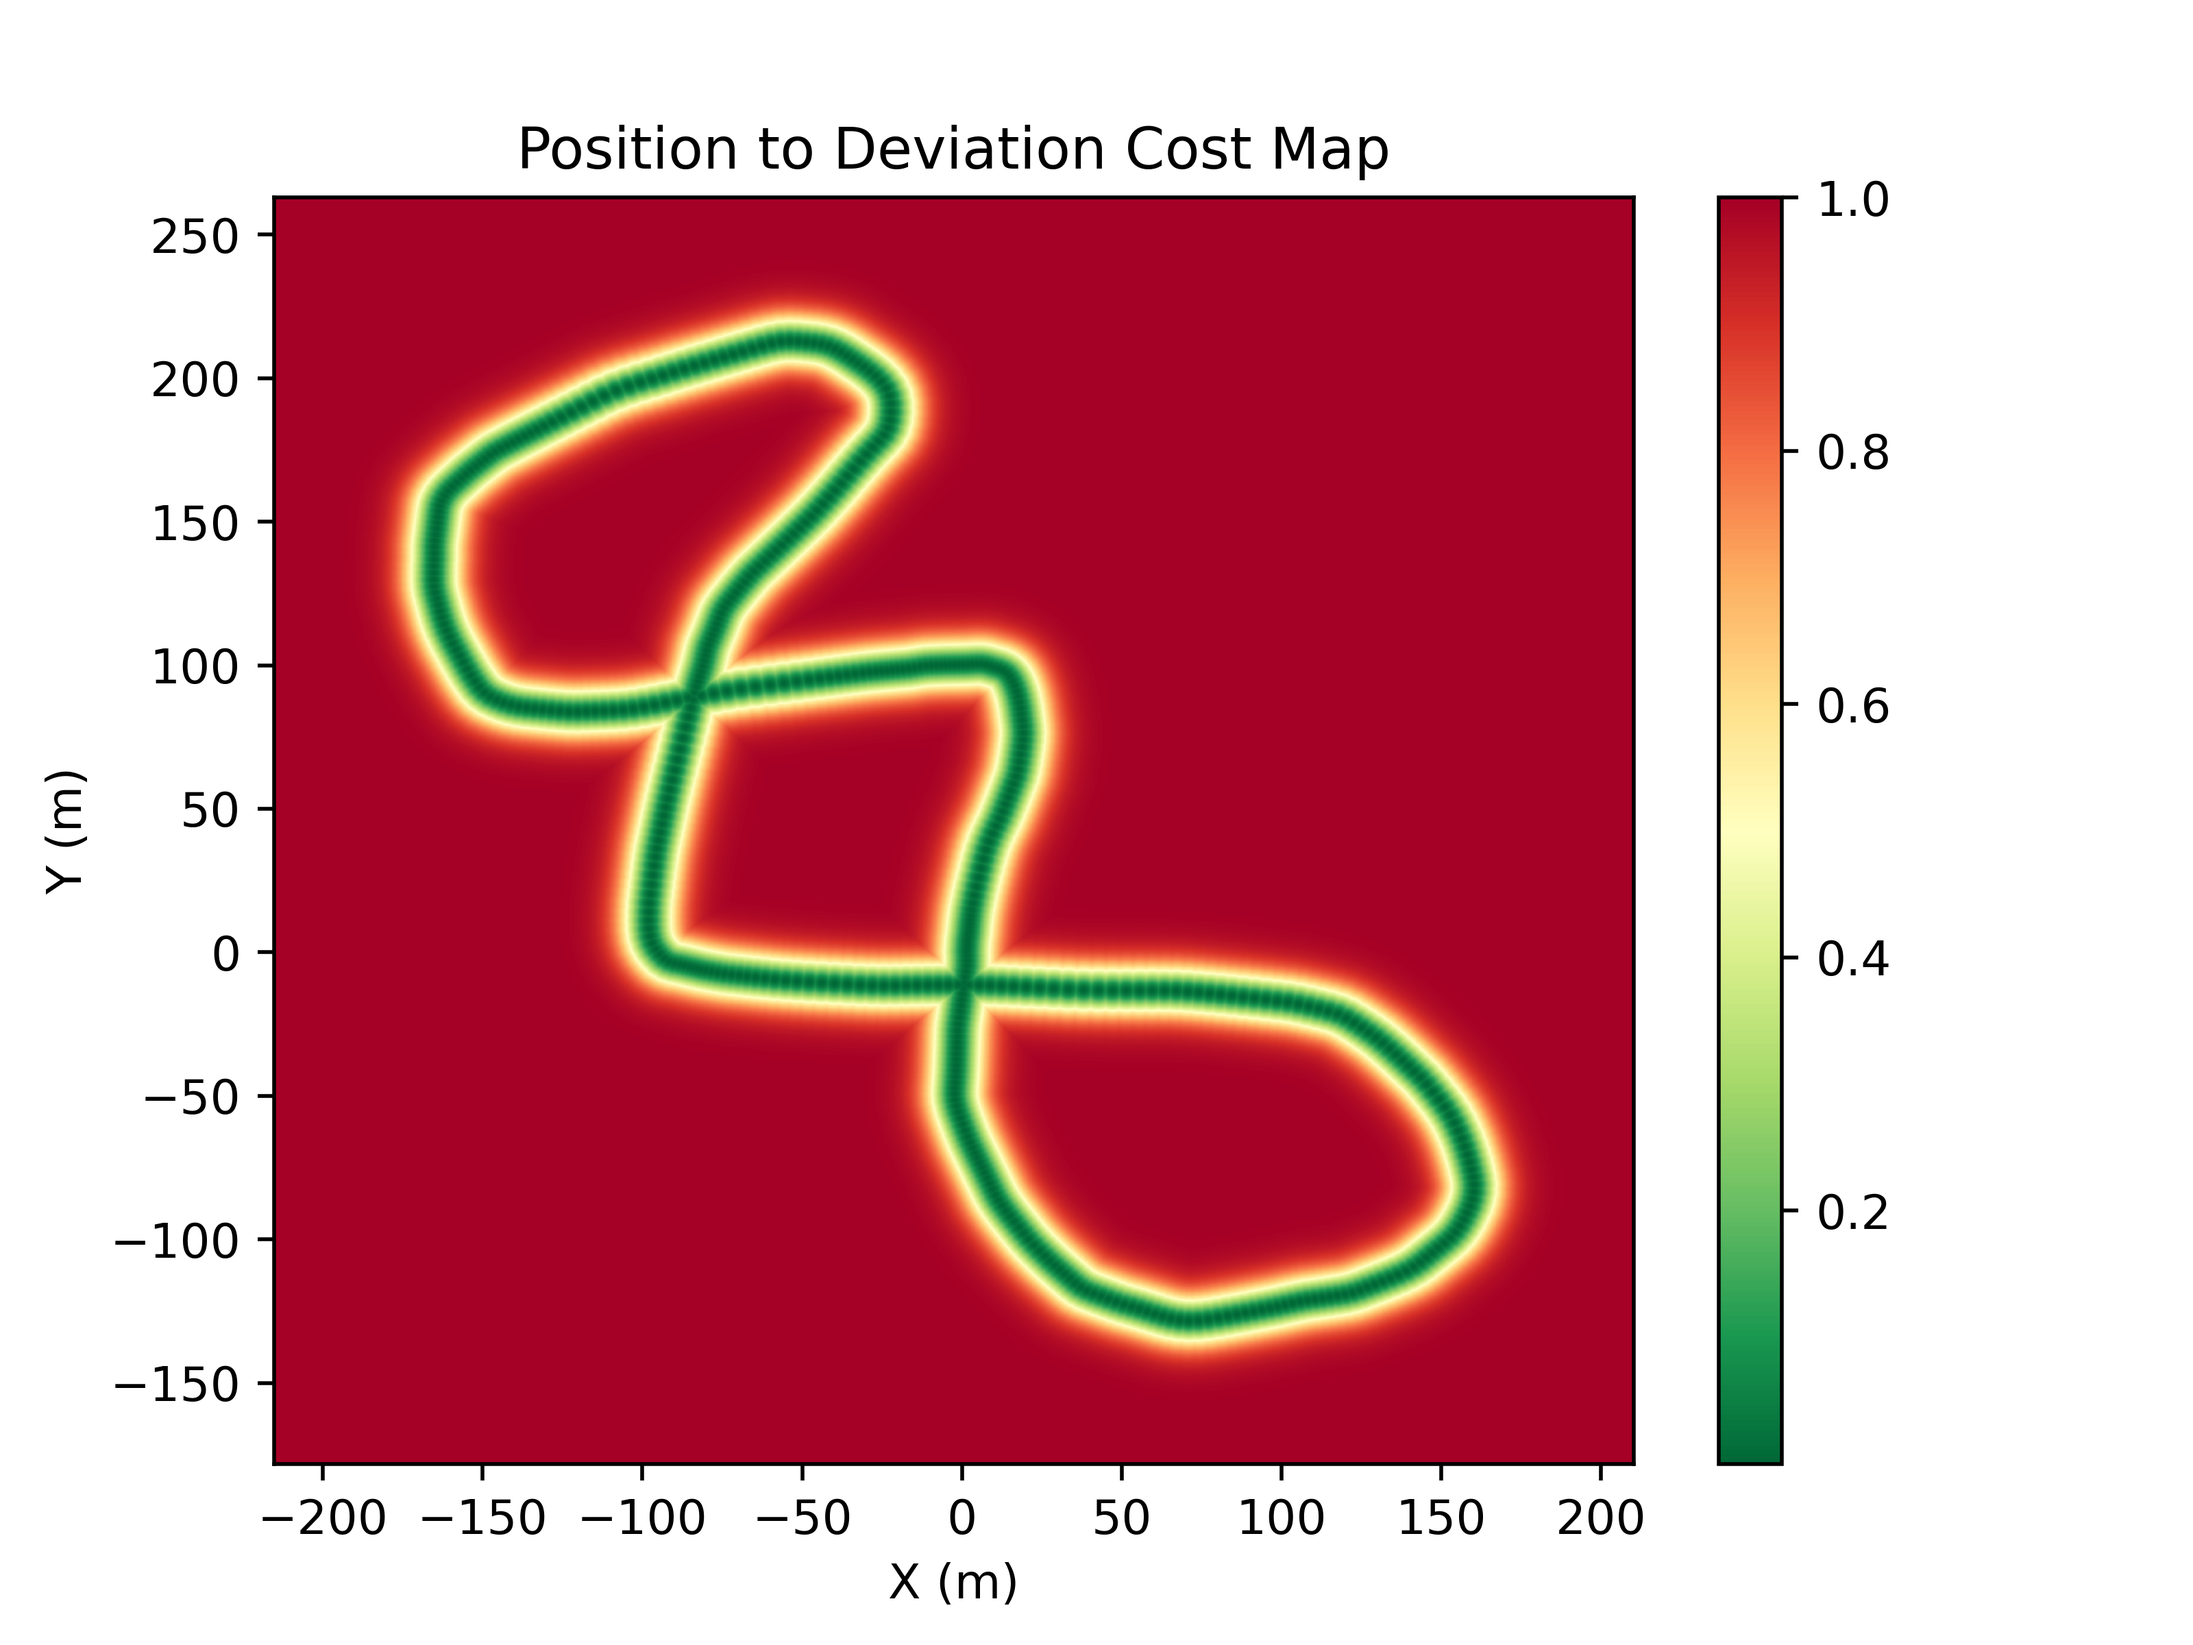
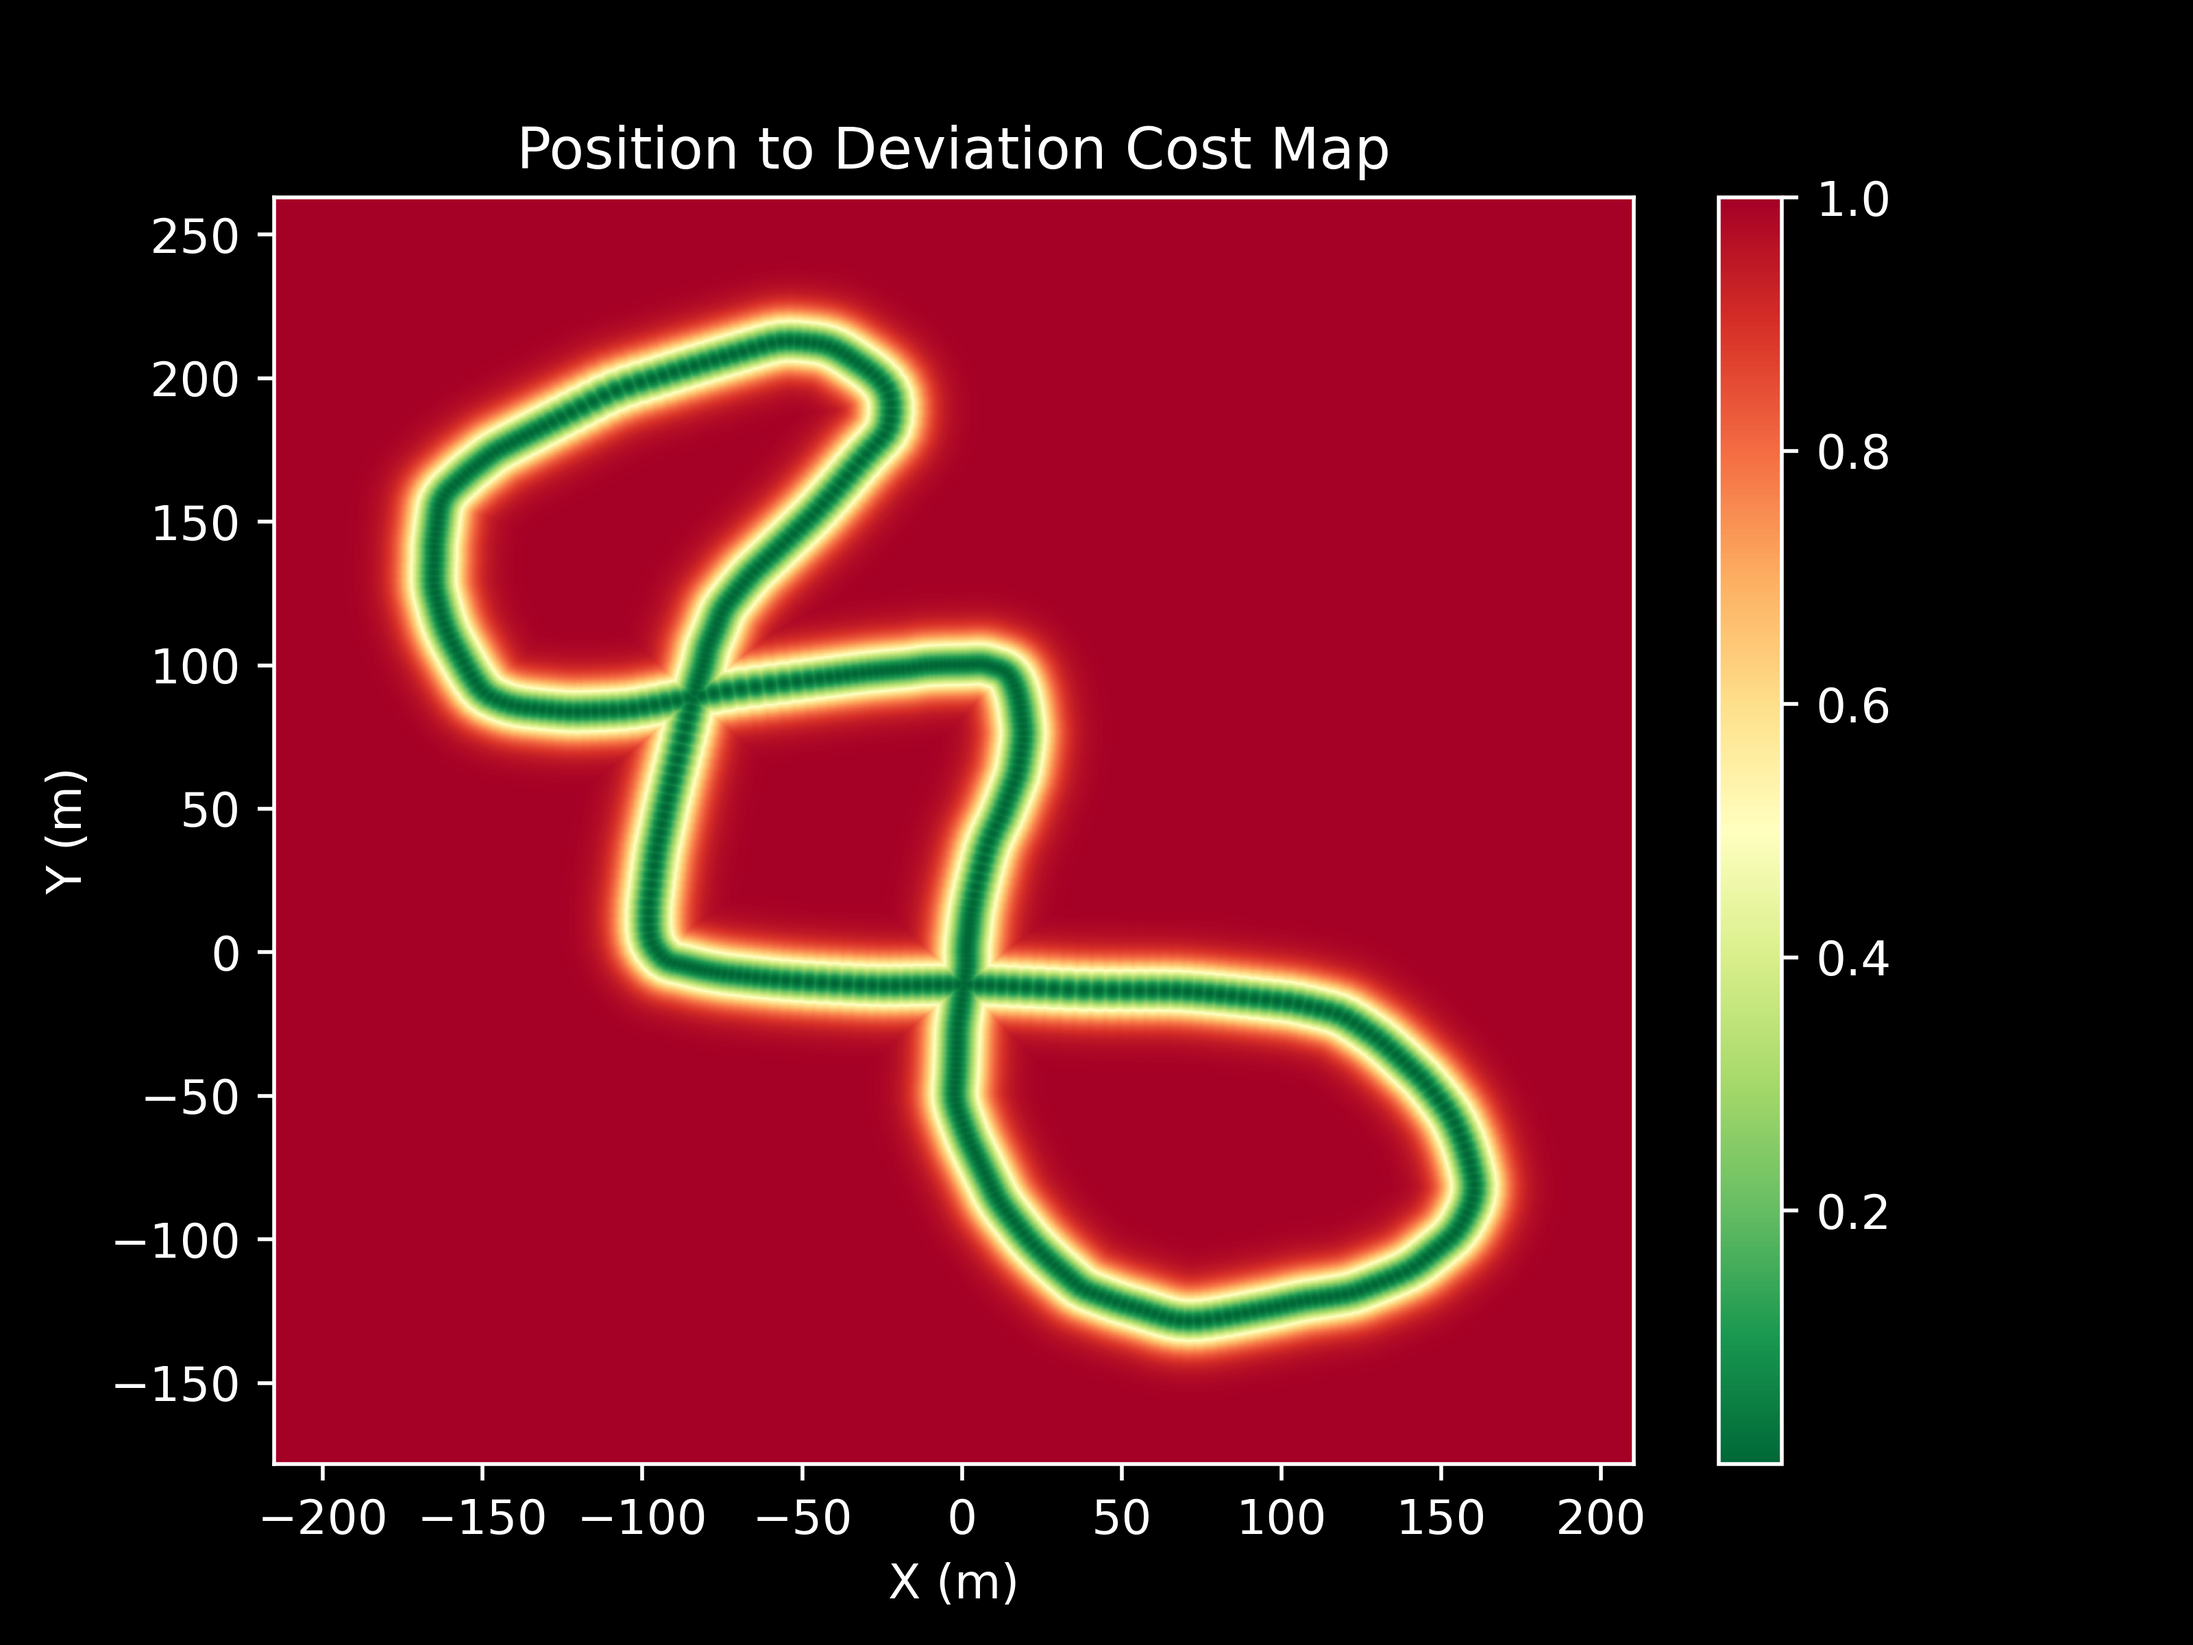
Cleaning videos

diff --git a/logging/video.py b/logging/video.py
@@ -5,6 +5,7 @@ from PIL import Image, ImageFont, ImageDraw
 import matplotlib.pyplot as plt
 from mpl_toolkits import mplot3d
 from matplotlib.backends.backend_agg import FigureCanvasAgg
+import matplotlib as mpl
 sys.path.append(os.path.abspath("./"))
 from src.envs import get_env
 from src.models import RandomAgent, get_config
@@ -21,14 +22,15 @@ class PathAnimator():
 		if interactive: plt.ion()
 		self.interactive = interactive
 		self.track = track
-		self.fig = plt.figure()#(figsize=(6, 8), dpi=80)
+		self.fig = plt.figure(figsize=(8, 8), dpi=80)
+		plt.style.use('dark_background')
 		self.fig.tight_layout()
 		self.fig.subplots_adjust(hspace=0.2, wspace=0.2)
 		self.fig.suptitle("Sampled MPPI Trajectories")
 		self.ax = plt.axes(projection='3d')
 		self.X, self.Y, self.Z = track.X, track.Y, track.Z
 
-	def animate_path(self, trajectories, chosen=None, view=50, info=None):
+	def animate_path(self, trajectories, chosen=None, view=60, info=None):
 		self.ax.cla()
 		self.plot(trajectories, chosen, view, info)
 		if self.interactive:
@@ -39,14 +41,18 @@ class PathAnimator():
 			cvs = FigureCanvasAgg(self.fig)
 			cvs.draw()
 			w, h = map(int, self.fig.get_size_inches()*self.fig.get_dpi())
-			image = np.frombuffer(cvs.tostring_rgb(), dtype="uint8").reshape(h,w,3)
+			image = np.copy(np.frombuffer(cvs.tostring_rgb(), dtype="uint8").reshape(h,w,3))
+			image[:,:80] = 0 
+			image[:,-80:] = 0
+			image[:80] = 0
+			image[-80:] = 0
 			plt.close()
 		return image
 
 	def plot(self, trajectories, chosen, view, info=None):
 		point = trajectories[0,0]
 		X, Y, Z = map(lambda x: x, [self.X, self.Y, self.Z])
-		self.ax.plot(X,Y,Z, color="#DDDDDD")
+		self.ax.plot(X,Y,Z, color="#999999")
 		self.ax.set_zlim3d(-100, 100)
 		self.ax.set_xlim3d(point[0]-view, point[0]+view)
 		self.ax.set_ylim3d(point[2]-view, point[2]+view)
@@ -56,7 +62,15 @@ class PathAnimator():
 			self.ax.plot(xs, ys, zs, linewidth=0.2)
 		if chosen is not None:
 			x,z,y = chosen[0,:,0], chosen[0,:,1], chosen[0,:,2]
-			self.ax.plot(x, y, z, color="black", linewidth=1)
+			self.ax.plot(x, y, z, color="blue", linewidth=1)
+			self.ax.scatter(x[0],y[0],z[0], s=2, color="white")
+		self.ax.w_xaxis.pane.set_color('#222222')
+		self.ax.w_yaxis.pane.set_color('#222222')
+		self.ax.w_zaxis.pane.set_color('#222222')
+		self.ax.grid(b=True, which='major', color='#555555', linestyle='-')
+		self.ax.xaxis._axinfo["grid"]['linewidth'] = 0.1
+		self.ax.yaxis._axinfo["grid"]['linewidth'] = 0.1
+		self.ax.zaxis._axinfo["grid"]['linewidth'] = 0.1
 
 def visualize_envmodel(save=True):
 	make_env, model, config = get_config("CarRacing-v1", "mppi")
@@ -205,9 +219,9 @@ def test_car_sim():
 	env.close()
 
 if __name__ == "__main__":
-	for model in ["sac","ddpg","ppo"]:
-		visualize_rl(model)
-	visualize_envmodel()
+	# for model in ["sac","ddpg","ppo"]:
+	# 	visualize_rl(model)
+	visualize_envmodel(True)
 	# test_envmodel()
 	# test_car_sim()
 	# test_mppi()

diff --git a/src/envs/CarRacing/objective/plot.py b/src/envs/CarRacing/objective/plot.py
@@ -12,17 +12,26 @@ os.makedirs(plot_dir, exist_ok=True)
 
 def plot_track2D(track):
 	plt.figure()
+	plt.style.use('dark_background')
+	plt.title("Reference Trajectory Positions")
+	plt.xlabel("X (m)")
+	plt.ylabel("Y (m)")
 	plt.plot(track.X,track.Y)
-	plt.savefig(f"{plot_dir}/Track2D", bounding_box="tight")
+	plt.savefig(f"{plot_dir}/Track2D", dpi=500, bounding_box="tight")
 
 def plot_track(track):
 	plt.figure()
+	plt.tight_layout()
+	plt.style.use('dark_background')
+	plt.suptitle("Reference Trajectory 3D Positions")
 	ax = plt.axes(projection='3d')
-	ax.scatter(track.X,track.Y,track.Z, s=1)
-	ax.set_xlim3d(-200, 200)
-	ax.set_ylim3d(-200, 200)
-	ax.set_zlim3d(-100, 100)
-	plt.savefig(f"{plot_dir}/Track3D", bounding_box="tight")
+	ax.scatter(track.X,track.Y,track.Z, s=1, color="black")
+	ax.set_xlim3d(-200, 100)
+	ax.set_xlabel("X (m)")
+	ax.set_ylabel("Y (m)")
+	ax.set_ylim3d(-30, 210)
+	ax.set_zlim3d(-50, 50)
+	plt.savefig(f"{plot_dir}/Track3D", dpi=500, bounding_box="tight")
 
 def plot_cost_map3D(cmodel):
 	plt.figure()
@@ -35,19 +44,20 @@ def plot_cost_map3D(cmodel):
 	ax.set_ylabel("Y")
 	ax.set_zlim3d(0, 2)
 
-def plot_cost_map(cmodel):
+def plot_cost_map(cmodel, transform=False):
 	plt.figure()
+	plt.style.use('dark_background')
 	XX,YY,ZZ = np.meshgrid(cmodel.X, cmodel.Y, [8])
 	# ZZ = 8*np.ones_like(XX)
 	grid = np.concatenate([XX,YY,ZZ], -1)
-	cost = cmodel.get_point_cost(grid, transform=True)
+	cost = cmodel.get_point_cost(grid, transform=transform)
 	XX, YY, cost = [x[...,0] for x in [XX, YY, cost]]
 	plt.pcolormesh(XX, YY, cost, cmap='RdYlGn_r')
 	plt.colorbar()
 	plt.title("Position to Deviation Cost Map")
 	plt.xlabel("X (m)")
 	plt.ylabel("Y (m)")
-	plt.savefig(f"{plot_dir}/Cost2D.png", dpi=500, bounding_box="tight")
+	plt.savefig(f"{plot_dir}/Cost2D{'_raw' if not transform else ''}.png", dpi=500, bounding_box="tight")
 
 def plot_track_map(track):
 	plt.figure()
@@ -82,8 +92,8 @@ if __name__ == "__main__":
 	cost_model = CostModel(cost_name="cost_map2Ddense")
 	track = cost_model.track
 	# plot_track2D(track)
-	# plot_track(track)
-	plot_cost_map(cost_model)
+	plot_track(track)
+	# plot_cost_map(cost_model, True)
 	# plot_cost_map3D(cost_model)
 	# plot_track_map(track)
 	# animate_path(track)
